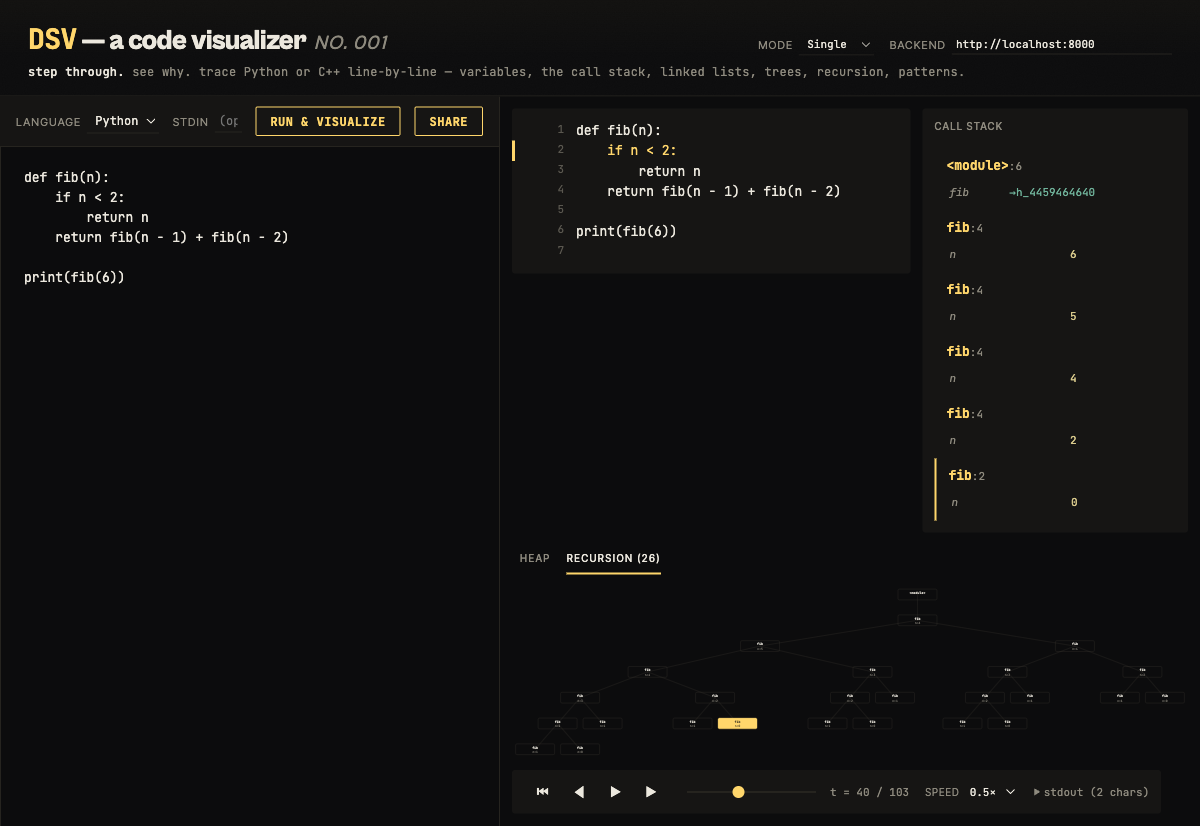
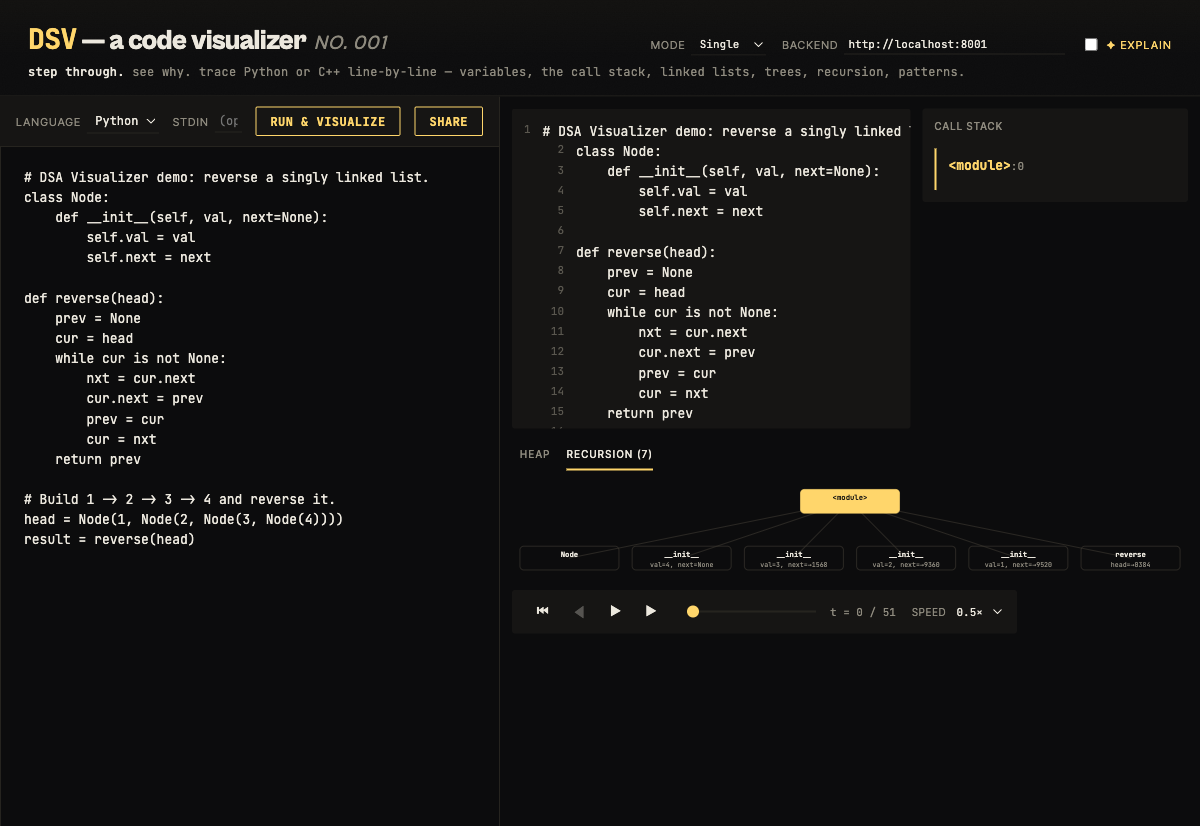
Fix recursion-tree labels: distinguish Node(1) from Node(2) etc.
Spotted in a screenshot: every __init__ node in the linked-list-
reverse demo rendered as `self=h_4430016736, val=…` — the same string
for all four calls, because the 24-char joined-string truncation
chopped exactly where the distinguishing integer (val=1 vs val=2)
would have been.

Two compounding causes:
- Python's implicit `self` is always passed to instance methods and
  is always a heap-ref. It ate 18 of the 24-char budget.
- `formatValue` rendered refs as the full pointer id (12+ chars). So
  a 3-arg call hit the cap before the second value made it in.

Fix
- Extract `formatArgs` + `formatArgValue` from RecursionTreeView.tsx
  into lib/recursionTree.ts so they're vitest-testable without React.
- `formatArgs` drops `self` outright (always-present method noise,
  never carries info) and caps the joined label at 32 chars with a
  trailing ellipsis.
- `formatArgValue` shortens refs to `→<last-4-digits>` — keeps a
  stable tag the reader can cross-reference with the Heap view
  without burning the line. Long strings cap at 14 chars.
- New `formatArgsVerbose` returns the full args (including self and
  full pointer ids) for the SVG `<title>` tooltip, so power users
  who hover get the complete picture.

Component
- RecursionTreeView imports the helpers from lib, deletes its local
  copies, adds a `<title>` child per node for the tooltip, and
  widens NODE_W from 130 → 150 so common 3-arg calls fit cleanly.

Tests
[…]

diff --git a/packages/visualizer-core/src/lib/__tests__/recursionTree.test.ts b/packages/visualizer-core/src/lib/__tests__/recursionTree.test.ts
@@ -1,6 +1,12 @@
 import { describe, expect, it } from "vitest";
-import type { Frame, TraceEvent } from "@dsa-viz/trace-schema";
-import { buildRecursionTree, countCalls, findActiveCall } from "../recursionTree";
+import type { Frame, TraceEvent, Value } from "@dsa-viz/trace-schema";
+import {
+  buildRecursionTree,
+  countCalls,
+  findActiveCall,
+  formatArgs,
+  formatArgValue,
+} from "../recursionTree";
 
 const frame = (func: string, locals: Record<string, number> = {}, args: string[] = []): Frame => ({
   func,
@@ -132,6 +138,75 @@ describe("maxNodes cap", () => {
     // At the cap boundary the last real node has a +more sibling.
     const reachedSomeTruncated = JSON.stringify(root).includes('"truncated":true');
     expect(reachedSomeTruncated).toBe(true);
+  });
+});
+
+describe("formatArgValue", () => {
+  it("renders primitives as Python-style literals", () => {
+    expect(formatArgValue({ kind: "int", v: 42 })).toBe("42");
+    expect(formatArgValue({ kind: "float", v: 3.14 })).toBe("3.14");
+    expect(formatArgValue({ kind: "bool", v: true })).toBe("True");
+    expect(formatArgValue({ kind: "bool", v: false })).toBe("False");
+    expect(formatArgValue({ kind: "none" })).toBe("None");
+  });
+
+  it("shortens heap refs to the last 4 digits with an arrow", () => {
+    expect(formatArgValue({ kind: "ref", id: "h_4344566304" })).toBe("→6304");
+    // Even for short ids the arrow + last-up-to-4 holds.
+    expect(formatArgValue({ kind: "ref", id: "h_7" })).toBe("→7");
+  });
+
+  it("truncates long strings with an ellipsis", () => {
+    const short = formatArgValue({ kind: "str", v: "hi" });
+    expect(short).toBe('"hi"');
+    const long = formatArgValue({ kind: "str", v: "a very long string indeed" });
+    expect(long.length).toBeLessThanOrEqual(14);
+    expect(long.endsWith("…")).toBe(true);
+  });
+});
+
+describe("formatArgs", () => {
+  const ref = (id: string): Value => ({ kind: "ref", id });
+  const num = (v: number): Value => ({ kind: "int", v });
+
+  it("drops Python's implicit self so the distinguishing val survives", () => {
+    expect(formatArgs({ self: ref("h_4430016736"), val: num(1) })).toBe("val=1");
+  });
+
+  it("renders simple integer args verbatim", () => {
+    expect(formatArgs({ n: num(6) })).toBe("n=6");
+  });
+
+  it("shortens ref args to the last-4 form", () => {
+    expect(formatArgs({ head: ref("h_4344566304") })).toBe("head=→6304");
+  });
+
+  it("caps the joined label at 32 chars with a trailing ellipsis", () => {
+    const args: Record<string, Value> = {};
+    "abcdefghijklmnopqrstuvwxyz".split("").forEach((letter, i) => {
+      args[letter] = num(i);
+    });
+    const out = formatArgs(args);
+    expect(out.length).toBeLessThanOrEqual(32);
+    expect(out.endsWith("…")).toBe(true);
+  });
+
+  it("renders None and True without quoting", () => {
+    expect(formatArgs({ x: { kind: "none" }, y: { kind: "bool", v: true } })).toBe(
+      "x=None, y=True",
+    );
+  });
+
+  it("regression: four Node(N) calls produce visually distinct labels", () => {
+    // This is the exact bug the user spotted in the screenshot — before the
+    // fix all four __init__ nodes rendered as `self=h_xxxx, val=…` and
+    // looked identical. After the fix they must each show their unique val.
+    const sharedSelf = ref("h_4430016736");
+    const labels = [1, 2, 3, 4].map((n) =>
+      formatArgs({ self: sharedSelf, val: num(n) }),
+    );
+    expect(labels).toEqual(["val=1", "val=2", "val=3", "val=4"]);
+    expect(new Set(labels).size).toBe(4); // explicit uniqueness check
   });
 });
 

diff --git a/packages/visualizer-core/src/lib/recursionTree.ts b/packages/visualizer-core/src/lib/recursionTree.ts
@@ -121,6 +121,66 @@ export function findActiveCall(
   return descend(root);
 }
 
+/**
+ * Render one Value for display on a recursion-tree node label.
+ *
+ * - Heap refs collapse to `→<last-4-digits>` so the args line stays scannable
+ *   without burning 12+ chars per pointer. The reader can cross-reference the
+ *   last-4 tag with the Heap view when they care about identity.
+ * - Strings are JSON-escaped and capped at 14 visible chars.
+ * - All other primitives render as their Python-style literal.
+ */
+export function formatArgValue(v: Value): string {
+  switch (v.kind) {
+    case "int":
+    case "float":
+      return String(v.v);
+    case "bool":
+      return v.v ? "True" : "False";
+    case "str": {
+      const s = JSON.stringify(v.v);
+      return s.length > 14 ? s.slice(0, 13) + "…" : s;
+    }
+    case "none":
+      return "None";
+    case "ref": {
+      const tail = v.id.replace(/^h_/, "").slice(-4);
+      return `→${tail}`;
+    }
+  }
+}
+
+/**
+ * Build the args label that hangs under each recursion-tree node.
+ *
+ * - Drops Python's implicit `self`: it's always there for instance methods,
+ *   always a heap-ref, and never carries info. Including it ate so much of
+ *   the budget that the actually-distinguishing arg (`val=1` vs `val=2` etc.)
+ *   got chopped by truncation.
+ * - Caps the joined label at 32 chars with a trailing ellipsis. The component
+ *   pairs this with a `<title>` tooltip that always shows the full args.
+ */
+export function formatArgs(args: Record<string, Value>): string {
+  const parts: string[] = [];
+  for (const [k, v] of Object.entries(args)) {
+    if (k === "self") continue;
+    parts.push(`${k}=${formatArgValue(v)}`);
+  }
+  const joined = parts.join(", ");
+  const CAP = 32;
+  return joined.length > CAP ? joined.slice(0, CAP - 1) + "…" : joined;
+}
+
+/** Verbose args label used by the SVG `<title>` tooltip — no truncation,
+ *  includes `self` so power users can correlate the full picture. */
+export function formatArgsVerbose(args: Record<string, Value>): string {
+  const parts: string[] = [];
+  for (const [k, v] of Object.entries(args)) {
+    parts.push(`${k}=${formatArgValue(v)}`);
+  }
+  return parts.join(", ");
+}
+
 export function countCalls(root: CallNode): number {
   let n = 0;
   function walk(node: CallNode): void {

diff --git a/packages/visualizer-core/src/components/RecursionTreeView.tsx b/packages/visualizer-core/src/components/RecursionTreeView.tsx
@@ -1,10 +1,12 @@
 import React, { useMemo } from "react";
 import { hierarchy, tree as d3tree } from "d3-hierarchy";
-import type { Trace, Value } from "@dsa-viz/trace-schema";
+import type { Trace } from "@dsa-viz/trace-schema";
 import {
   buildRecursionTree,
   countCalls,
   findActiveCall,
+  formatArgs,
+  formatArgsVerbose,
   type CallNode,
 } from "../lib/recursionTree";
 
@@ -15,7 +17,7 @@ export interface RecursionTreeViewProps {
   maxNodes?: number;
 }
 
-const NODE_W = 130;
+const NODE_W = 150;
 const NODE_H = 36;
 
 export const RecursionTreeView: React.FC<RecursionTreeViewProps> = ({
@@ -74,18 +76,23 @@ export const RecursionTreeView: React.FC<RecursionTreeViewProps> = ({
       ))}
       {nodes.map((node) => {
         const isActive = node.data.id === activeId;
+        const argsLabel = formatArgs(node.data.args);
+        const tooltip = `${node.data.func}(${formatArgsVerbose(node.data.args)})`;
         return (
           <g
             key={node.data.id}
             transform={`translate(${node.x}, ${node.y})`}
             className={`dsa-viz-recursion-node${isActive ? " is-active" : ""}`}
           >
+            {/* Native browser tooltip — hovering a node reveals the full
+                args including self= and full pointer ids. */}
+            <title>{tooltip}</title>
             <rect x={-NODE_W / 2} y={-NODE_H / 2} width={NODE_W} height={NODE_H} rx={6} />
             <text className="dsa-viz-recursion-func" textAnchor="middle" y={-2}>
               {node.data.func}
             </text>
             <text className="dsa-viz-recursion-args" textAnchor="middle" y={13}>
-              {formatArgs(node.data.args)}
+              {argsLabel}
             </text>
           </g>
         );
@@ -93,25 +100,3 @@ export const RecursionTreeView: React.FC<RecursionTreeViewProps> = ({
     </svg>
   );
 };
-
-function formatArgs(args: Record<string, Value>): string {
-  const parts = Object.entries(args).map(([k, v]) => `${k}=${formatValue(v)}`);
-  const joined = parts.join(", ");
-  return joined.length > 24 ? joined.slice(0, 23) + "…" : joined;
-}
-
-function formatValue(v: Value): string {
-  switch (v.kind) {
-    case "int":
-    case "float":
-      return String(v.v);
-    case "bool":
-      return v.v ? "True" : "False";
-    case "str":
-      return JSON.stringify(v.v);
-    case "none":
-      return "None";
-    case "ref":
-      return v.id;
-  }
-}